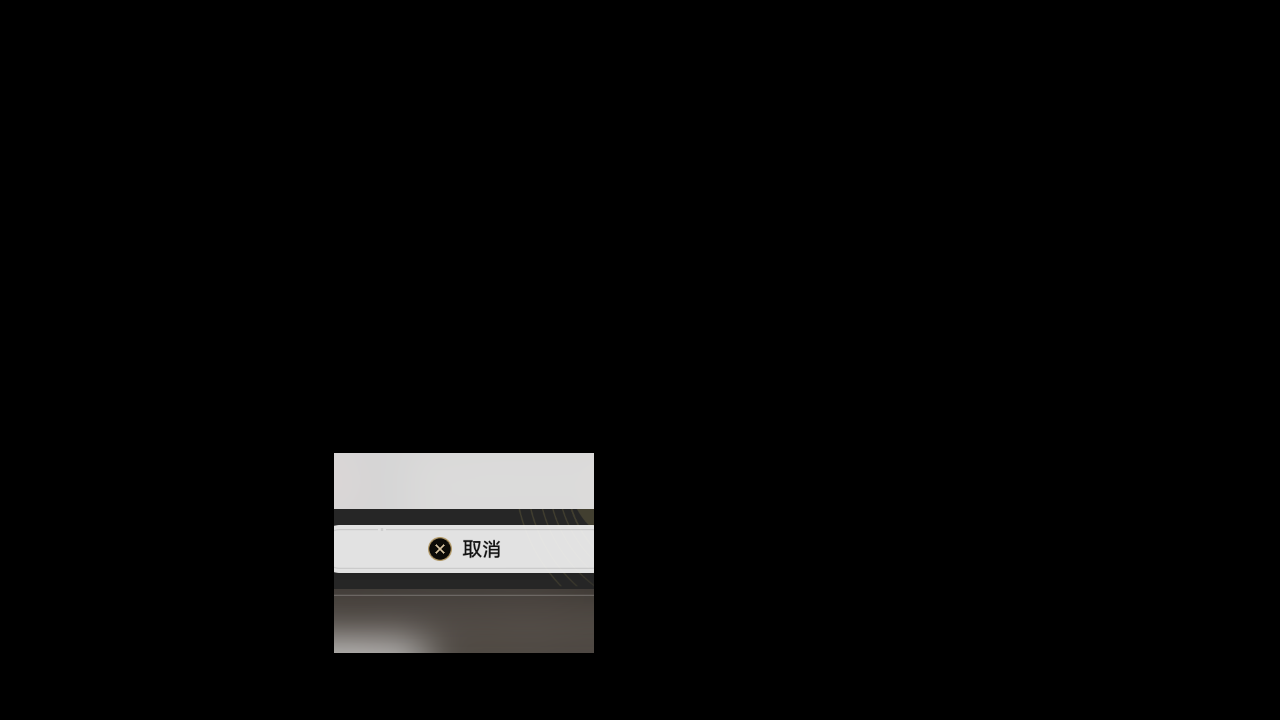
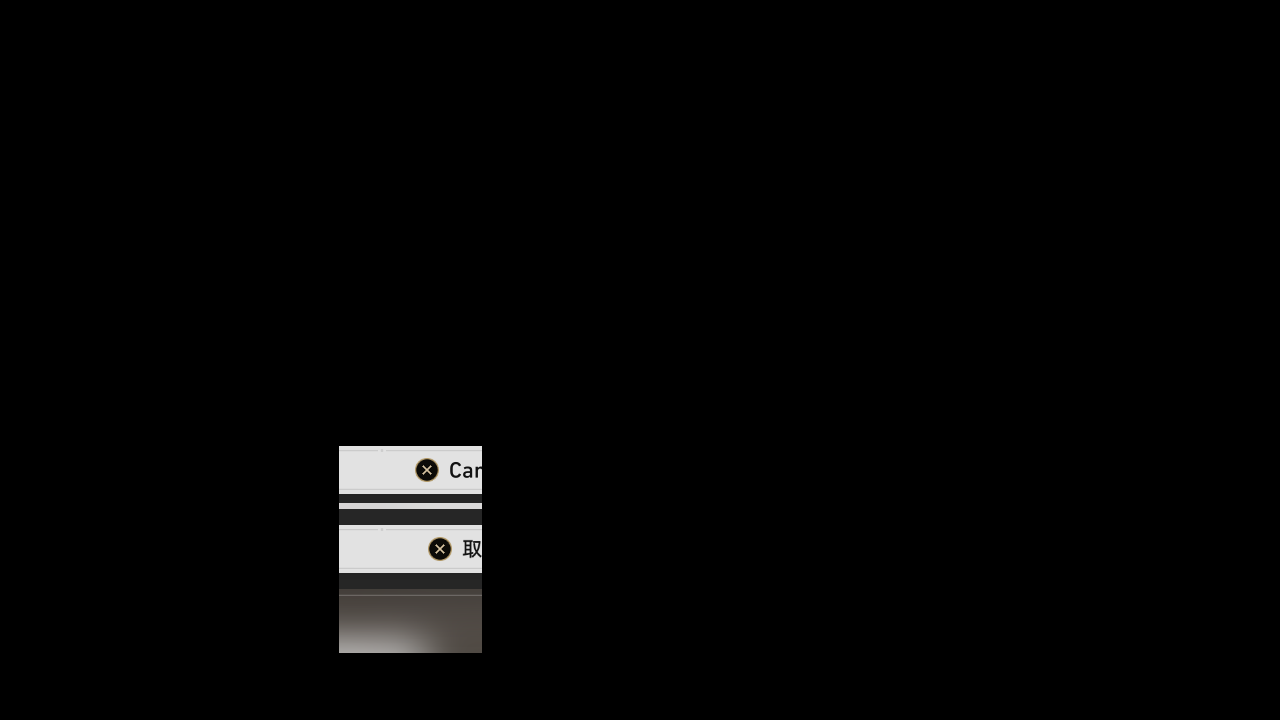
Del: Replace EXIT_CONFIRM with enlarged POPUP_*.SEARCH

Changed region(s): [[0.25, 0.6111, 0.4688, 0.9167]]

diff --git a/tasks/forgotten_hall/ui.py b/tasks/forgotten_hall/ui.py
@@ -13,7 +13,7 @@ from tasks.base.assets.assets_base_page import FORGOTTEN_HALL_CHECK, MAP_EXIT
 from tasks.dungeon.keywords import DungeonList, KEYWORDS_DUNGEON_TAB
 from tasks.dungeon.ui import DungeonUI
 from tasks.forgotten_hall.assets.assets_forgotten_hall import *
-from tasks.forgotten_hall.keywords import *
+from tasks.forgotten_hall.keywords import ForgottenHallStage
 from tasks.map.control.joystick import MapControlJoystick
 
 
@@ -125,6 +125,7 @@ class ForgottenHallUI(DungeonUI):
         STAGE_LIST.select_row(stage_keyword, main=self)
 
     def exit_dungeon(self, skip_first_screenshot=True):
+        logger.info('Exit dungeon')
         while 1:
             if skip_first_screenshot:
                 skip_first_screenshot = False
@@ -137,7 +138,7 @@ class ForgottenHallUI(DungeonUI):
 
             if self.appear_then_click(MAP_EXIT):
                 continue
-            if self.appear_then_click(EXIT_CONFIRM):
+            if self.handle_popup_confirm():
                 continue
 
     def _choose_first_character(self, skip_first_screenshot=True):

diff --git a/tasks/base/assets/assets_base_popup.py b/tasks/base/assets/assets_base_popup.py
@@ -48,7 +48,7 @@ POPUP_CANCEL = ButtonWrapper(
     share=Button(
         file='./assets/share/base/popup/POPUP_CANCEL.png',
         area=(428, 537, 452, 561),
-        search=(334, 453, 594, 653),
+        search=(339, 446, 482, 653),
         color=(98, 92, 80),
         button=(419, 531, 512, 567),
     ),
@@ -58,7 +58,7 @@ POPUP_CONFIRM = ButtonWrapper(
     share=Button(
         file='./assets/share/base/popup/POPUP_CONFIRM.png',
         area=(776, 537, 800, 561),
-        search=(683, 464, 943, 644),
+        search=(686, 446, 829, 644),
         color=(95, 90, 78),
         button=(767, 531, 862, 567),
     ),
@@ -68,7 +68,7 @@ POPUP_SINGLE = ButtonWrapper(
     share=Button(
         file='./assets/share/base/popup/POPUP_SINGLE.png',
         area=(602, 458, 626, 482),
-        search=(511, 365, 771, 575),
+        search=(512, 446, 655, 644),
         color=(95, 90, 77),
         button=(578, 451, 705, 489),
     ),

diff --git a/tasks/forgotten_hall/assets/assets_forgotten_hall.py b/tasks/forgotten_hall/assets/assets_forgotten_hall.py
@@ -43,16 +43,6 @@ ENTRANCE_CHECKED = ButtonWrapper(
         button=(55, 632, 71, 650),
     ),
 )
-EXIT_CONFIRM = ButtonWrapper(
-    name='EXIT_CONFIRM',
-    share=Button(
-        file='./assets/share/forgotten_hall/EXIT_CONFIRM.png',
-        area=(776, 458, 800, 482),
-        search=(756, 438, 820, 502),
-        color=(94, 88, 76),
-        button=(776, 458, 800, 482),
-    ),
-)
 FIRST_CHARACTER = ButtonWrapper(
     name='FIRST_CHARACTER',
     share=Button(
